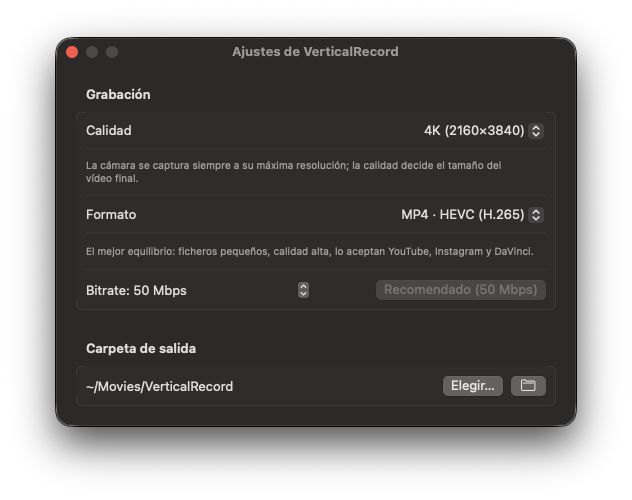
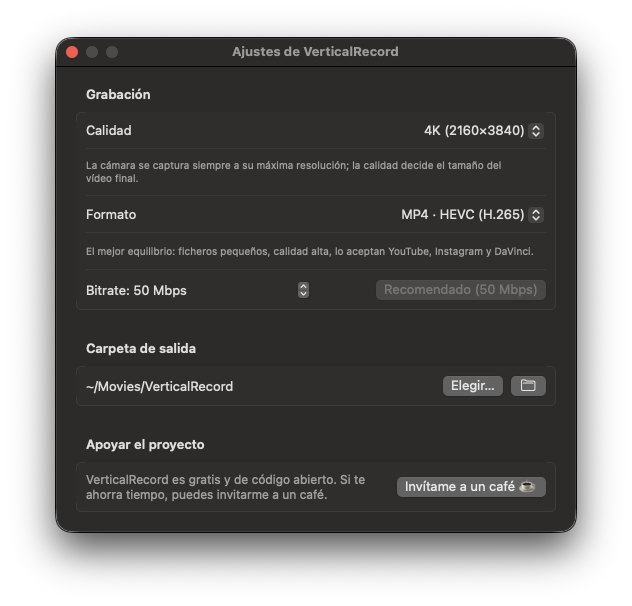
Apoyar el proyecto: enlace a Buy Me a Coffee en app, README y FUNDING.yml
Menú Ayuda (café, GitHub, canal), línea al pie de la ventana, sección en
Preferencias y botón «Sponsor» del repo. Versión 1.1.1.

diff --git a/Sources/VerticalRecord/ContentView.swift b/Sources/VerticalRecord/ContentView.swift
@@ -173,6 +173,15 @@ struct ContentView: View {
                     .font(.caption2)
                     .foregroundStyle(.tertiary)
                     .textSelection(.enabled)
+                // Gratis y open source; el café es la única forma de apoyar el proyecto, y no interrumpe.
+                Button {
+                    NSWorkspace.shared.open(Links.coffee)
+                } label: {
+                    Label("Gratis y open source · invítame a un café", systemImage: "cup.and.saucer")
+                        .font(.caption2)
+                }
+                .buttonStyle(.link)
+                .padding(.top, 2)
             }
         }
         .padding(16)

diff --git a/Sources/VerticalRecord/PreferencesView.swift b/Sources/VerticalRecord/PreferencesView.swift
@@ -54,6 +54,16 @@ struct PreferencesView: View {
                         .font(.caption)
                 }
             }
+
+            Section("Apoyar el proyecto") {
+                HStack {
+                    Text("VerticalRecord es gratis y de código abierto. Si te ahorra tiempo, puedes invitarme a un café.")
+                        .font(.callout)
+                        .foregroundStyle(.secondary)
+                    Spacer()
+                    Button("Invítame a un café ☕") { NSWorkspace.shared.open(Links.coffee) }
+                }
+            }
         }
         .formStyle(.grouped)
         .frame(width: 520)

diff --git a/Sources/VerticalRecord/Scenes.swift b/Sources/VerticalRecord/Scenes.swift
@@ -1,6 +1,13 @@
 import AVFoundation
 import CoreGraphics
 
+/// Enlaces del proyecto: un solo sitio para no repetirlos por la interfaz.
+enum Links {
+    static let repo = URL(string: "https://github.com/elrincondeisma/VerticalRecord")!
+    static let coffee = URL(string: "https://buymeacoffee.com/elrincondeisma")!
+    static let channel = URL(string: "https://www.youtube.com/@elrincondeisma")!
+}
+
 /// El lienzo siempre es vertical 9:16; la calidad elige cuántos píxeles.
 struct Canvas: Equatable {
     let width: Int

diff --git a/Sources/VerticalRecord/VerticalRecordApp.swift b/Sources/VerticalRecord/VerticalRecordApp.swift
@@ -29,6 +29,11 @@ struct VerticalRecordApp: App {
                     NSWorkspace.shared.open(engine.outputFolder)
                 }
             }
+            CommandGroup(replacing: .help) {
+                Button("Invítame a un café ☕") { NSWorkspace.shared.open(Links.coffee) }
+                Button("Código fuente en GitHub") { NSWorkspace.shared.open(Links.repo) }
+                Button("El Rincón de Isma en YouTube") { NSWorkspace.shared.open(Links.channel) }
+            }
         }
     }
 }

diff --git a/README.md b/README.md
@@ -14,6 +14,7 @@
   <img src="https://img.shields.io/badge/macOS-15%2B-000?logo=apple" alt="macOS 15+">
   <img src="https://img.shields.io/badge/Apple%20Silicon-nativo-000?logo=apple" alt="Apple Silicon">
   <img src="https://img.shields.io/github/license/elrincondeisma/VerticalRecord" alt="MIT">
+  <a href="https://buymeacoffee.com/elrincondeisma"><img src="https://img.shields.io/badge/invítame%20a%20un%20café-ffdd00?logo=buymeacoffee&logoColor=000" alt="Buy me a coffee"></a>
 </p>
 
 <p align="center">
@@ -156,6 +157,13 @@ desincronía que corregir.
   para llenar el lienzo vertical). En la escena dividida la cámara va casi a tamaño nativo.
 - Si la ventana capturada se cierra, la parte de arriba se queda en negro hasta elegir otra (↻).
 - Una sola cámara, un solo micro, dos escenas. Es la idea.
+
+## Apoyar el proyecto
+
+VerticalRecord es gratis y de código abierto, y lo va a seguir siendo. Si te ahorra tiempo,
+puedes [invitarme a un café](https://buymeacoffee.com/elrincondeisma) ☕ — también hay un botón
+«Sponsor» arriba del repo. Y si haces vídeos con ella, cuéntamelo en
+[El Rincón de Isma](https://www.youtube.com/@elrincondeisma).
 
 ## Licencia
 
